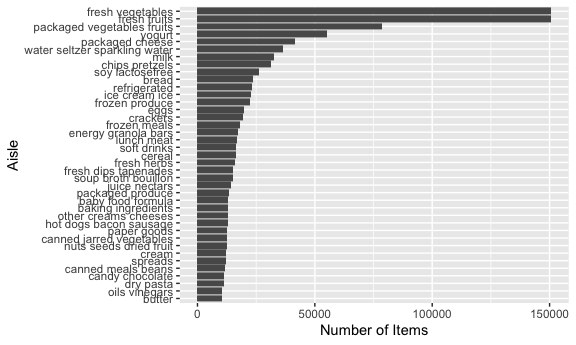
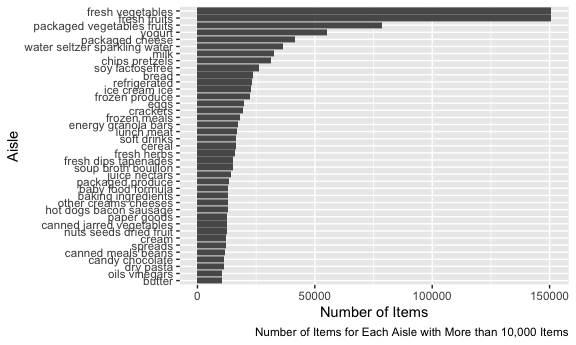
Problem 2 Answers

Changed region(s): [[0.0312, 0.029, 1.0, 0.9855], [0.0, 0.3768, 0.0312, 0.4928]]

diff --git a/p8105_hw3_yy3421.md b/p8105_hw3_yy3421.md
@@ -59,7 +59,8 @@ n_item_max |>
   geom_bar(stat = "Identity") +
   labs(
     y = "Aisle",
-    x = "Number of Items"
+    x = "Number of Items",
+    caption = "Number of Items for Each Aisle with More than 10,000 Items"
   )
 ```
 
@@ -68,8 +69,7 @@ n_item_max |>
 ### Question 3:
 
 ``` r
-instacart_popular=
-  instacart_aisle |> 
+instacart_aisle |> 
   group_by(aisle, product_name) |> 
   filter(
       aisle == "baking ingredients" | aisle == "dog food care" | aisle == "packaged vegetables fruits"
@@ -85,11 +85,24 @@ instacart_popular=
     ## `summarise()` has grouped output by 'aisle'. You can override using the
     ## `.groups` argument.
 
+    ## # A tibble: 9 × 4
+    ## # Groups:   aisle [3]
+    ##   aisle                      product_name                 n_product product_rank
+    ##   <chr>                      <chr>                            <int>        <int>
+    ## 1 packaged vegetables fruits Organic Baby Spinach              9784            1
+    ## 2 packaged vegetables fruits Organic Raspberries               5546            2
+    ## 3 packaged vegetables fruits Organic Blueberries               4966            3
+    ## 4 baking ingredients         Light Brown Sugar                  499            1
+    ## 5 baking ingredients         Pure Baking Soda                   387            2
+    ## 6 baking ingredients         Cane Sugar                         336            3
+    ## 7 dog food care              Snack Sticks Chicken & Rice…        30            1
+    ## 8 dog food care              Organix Chicken & Brown Ric…        28            2
+    ## 9 dog food care              Small Dog Biscuits                  26            3
+
 ### Question 4:
 
 ``` r
-instacart_day = 
-  instacart |> 
+instacart |> 
   group_by(order_dow, product_name) |> 
   filter(
     product_name == "Pink Lady Apples"| product_name == "Coffee Ice Cream"
@@ -108,3 +121,101 @@ instacart_day =
 
     ## `summarise()` has grouped output by 'order_dow'. You can override using the
     ## `.groups` argument.
+
+    ## # A tibble: 7 × 3
+    ## # Groups:   order_dow [7]
+    ##   order_dow `Coffee Ice Cream` `Pink Lady Apples`
+    ##       <dbl>              <dbl>              <dbl>
+    ## 1         1               13.8               13.4
+    ## 2         2               14.3               11.4
+    ## 3         3               15.4               11.7
+    ## 4         4               15.3               14.2
+    ## 5         5               15.2               11.6
+    ## 6         6               12.3               12.8
+    ## 7         7               13.8               11.9
+
+## Problem 2
+
+Load data and clean:
+
+``` r
+library(p8105.datasets)
+data("brfss_smart2010")
+```
+
+``` r
+brfss_smart2010 = 
+  brfss_smart2010 |> 
+  janitor::clean_names() |> 
+  filter(
+    topic == "Overall Health",
+    response == "Excellent"|response == "Very good"|response == "Good"|response == "Fair"|response == "Poor"
+  ) |> 
+  mutate(
+    response = factor(response, levels = c("Excellent", "Very good", "Good", "Fair", "Poor"))
+  ) |> 
+  arrange(desc(response))
+```
+
+### Question 1:
+
+``` r
+brfss_smart2010_state = 
+  brfss_smart2010 |> 
+  group_by(locationabbr, locationdesc) |> 
+  tally()
+```
+
+## Question 2:
+
+``` r
+brfss_smart2010 |> 
+  filter(
+    response == "Excellent"
+  ) |> 
+  select(year, locationabbr, data_value
+  ) |> 
+  group_by(locationabbr, year) |> 
+  summarize(avg_data_value = mean(data_value, na.rm = TRUE)) |>
+  ggplot(aes(
+    x = year, 
+    y = avg_data_value, 
+    color = locationabbr,
+    group = locationabbr))+
+  geom_point()+
+  geom_line()+
+  labs(
+    x = "Year",
+    y = "Average Data Values",
+    caption = "Change in Average Data Values from 2002 to 2010 for Each State"
+  )
+```
+
+    ## `summarise()` has grouped output by 'locationabbr'. You can override using the
+    ## `.groups` argument.
+
+<img src="p8105_hw3_yy3421_files/figure-gfm/unnamed-chunk-10-1.png" width="95%" />
+
+## Question 3:
+
+``` r
+brfss_smart2010 |> 
+  filter(
+    locationabbr == "NY",
+    year == 2006 | year == 2010
+  ) |> 
+  ggplot(
+    aes(
+      x = response, y = data_value, fill = response
+    )
+  )+
+  geom_boxplot()+
+  facet_grid(~year)+
+  labs(
+    x = "Response",
+    y = "Data Value",
+    caption = "Distribution of Data Value for Responses between 2006 and 2010"
+  )
+```
+
+<img src="p8105_hw3_yy3421_files/figure-gfm/unnamed-chunk-11-1.png" width="95%" />
